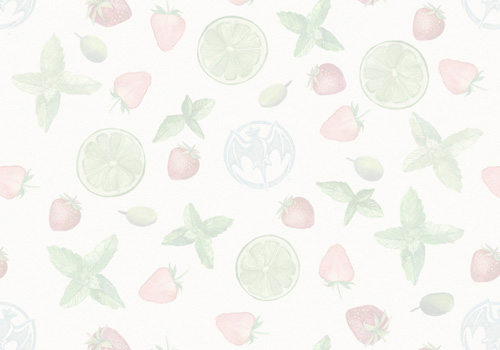
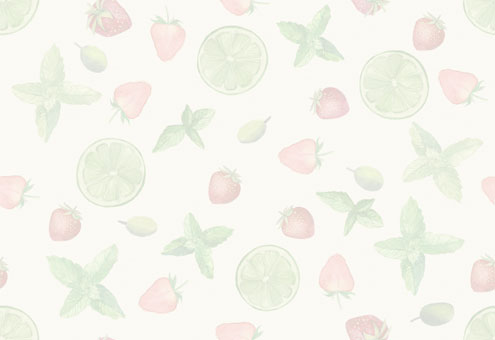
remove brand

diff --git a/htdocs/t/branding/2012.07/branding.css b/htdocs/t/branding/2012.07/branding.css
@@ -14,7 +14,7 @@
 .cocktail-list .next,
 button.rounded,
 .common-share-box .button i { background-repeat: no-repeat; background-image: url(common.png); }
-#spotlighted i { width: 124px; height: 33px; right: -1px; top: -9px; }
+#spotlighted i { width: 85px; height: 40px; right: -1px; top: -11px; }
 #branded-image { background-repeat: no-repeat; background-image: url(image.png); width: 460px; height: 530px; left: 140px; bottom: -800px; }
 #branded-image-holder { height: 1225px; position: absolute; top: 85px; bottom: auto; }
 html.float-fixed #branded-image-holder { position: fixed; top: 0; bottom: auto; }
